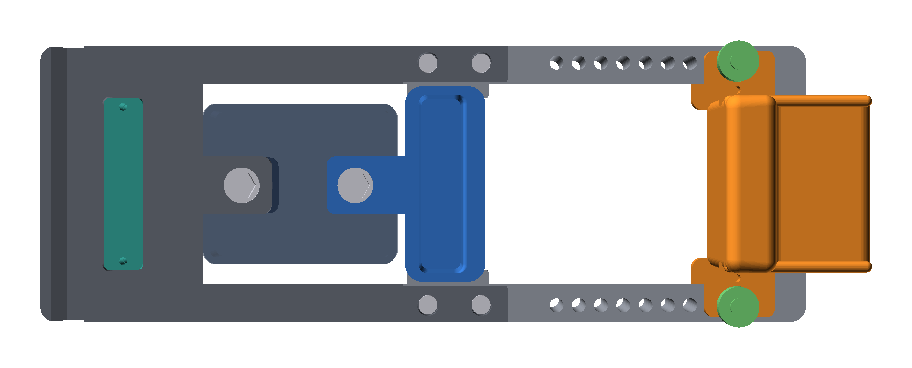
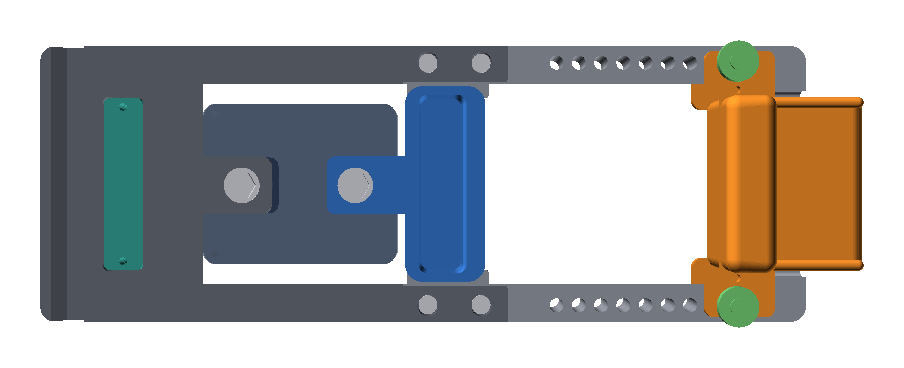
fix: raise only the palm bolster, keep the heel deck level
Return the heel deck to the pocket mouth (Z 34) and restore the right-post
channel it slides through. The palm bolster now rises 32 mm instead of
12 mm, so its top stays at Z 66, 14.5 mm above the pin buttons. Add a
bolster bending screen and a pin-clearance assertion, and update the docs
and illustrations.

diff --git a/docs/src/design/index.md b/docs/src/design/index.md
@@ -59,7 +59,7 @@ matching 5 mm rounded edges and no groove at the transition. Two low,
 than the grip so it slides past the grip guides when it goes onto the frame.
 
 At the finger-facing end, a straight palm bolster modelled on the GoGor LITE
-pad spans the full 78 mm pad width. It is 22 mm deep and 12 mm tall above
+pad spans the full 78 mm pad width. It is 22 mm deep and 32 mm tall above
 the deck, with a nearly flat 11 mm top, a 6 mm front top radius, a 5 mm rear
 top radius, rounded ends blended into the side lips, and a 3 mm concave fillet
 into the deck. It has no cup or ridge. The palm heel pushes on its
@@ -70,13 +70,13 @@ material, with no soft layer.
 
 Behind the bolster, a 38 × 68 mm open heel deck remains solid and
 uninterrupted: no holes, slots, exposed fasteners, or separate pads beneath
-the wrist. The 18 mm-thick deck tops out at Z = 54 mm, 20 mm above the finger
-pocket's +Z opening, and the bolster at Z = 66 mm; only the bolster and the
-low lips rise above the deck. The deck is 2.5 mm above the pin buttons and
-14.5 mm below the bolster top, so a thumb wrapped round the bolster stays
-above the pin heads. Its underside is 2 mm above the frame, so it passes over
-the solid right post at full travel. The upper pin arms are trimmed flush
-with the palm face across the pad width and merge into the deck behind it.
+the wrist. The 14 mm-thick deck sits at Z = 34 mm, level with the finger
+pocket's +Z opening; only the bolster and the low lips rise above it. The
+bolster top, at Z = 66 mm, is 14.5 mm above the pin buttons, so a thumb
+wrapped round the bolster stays above the pin heads. A rounded clearance
+channel in the fixed right post keeps 2 mm under the deck at full wrist
+travel. The upper pin arms are trimmed flush with the palm face across the
+pad width and join the saddle through the bolster's end faces.
 
 The whole saddle moves with the selected opening. The index holes and release
 pins remain outboard of the contact surface; they are adjustment features, not
@@ -95,8 +95,9 @@ These are setup guides, not ergonomic prescriptions.
 
 The lower wrist arms are 28 mm wide. The upper arms extend 3 mm farther away
 from the fingers, giving 24 mm of joint length behind the palm face where they
-join the palm face and the deck. The full-depth indexed rails, the left
-load-cell anchor and the right closing post stay intact. The rails sit 10.7 mm
+enter the bolster's end faces. The full-depth indexed rails and left load-cell
+anchor stay intact; the right closing post retains a 29 mm-deep lower bridge
+and 20 mm side webs under its clearance channel. The rails sit 10.7 mm
 from the case on each side, set by the grip width, so the service tunnel
 through the +Y rail is 26 mm long.
 

diff --git a/docs/src/build/slicer-checks.md b/docs/src/build/slicer-checks.md
@@ -25,8 +25,8 @@ A floating-regions warning means something is missing support.
 - [ ] There's no brim inside the frame U openings, as expected with "Outer brim only".
 - [ ] The brims of neighbouring parts are separate, or only just touch.
 - [ ] The flat faces on the bed are fully filled.
-- [ ] Support bases appear under the right-half lap tongues and grip-guide
-      ledges, the left-half clevis cheek, the wrist-rest deck and the grip
+- [ ] Support bases appear under the right-half lap tongues, grip-guide
+      ledges and channel bridge, the left-half clevis cheek, the wrist-rest deck and the grip
       cheek.
 - [ ] The four screw counterbores, the stopper well and the phone slot of
       the left half are open on the bed.
@@ -48,7 +48,13 @@ Step up until the cheek with the Ø17 hole first appears.
       air, including the outer corner.
 - [ ] The support trees don't lean against the rails.
 
-## F. Plate 2: lap tongues and grip guides (right half, about 22.5 mm and 31 mm)
+## F. Plate 2: channel bridge, lap tongues and grip guides (right half)
+
+Step up to about 14–18 mm, until the closed end of the right half starts
+spanning the channel.
+
+- [ ] The layer just below has dense **support interface** under the bridge.
+- [ ] The first bridge layer is straight parallel lines across the gap.
 
 Step up until the two lap tongues at the open end of the right half first
 appear.
@@ -62,7 +68,7 @@ appear.
 
 ## G. Plate 3: wrist rest, grip and stoppers
 
-- [ ] The first layer of the heel deck, roughly 55 mm up, sits on support
+- [ ] The first layer of the heel deck, roughly 35–50 mm up, sits on support
       interface with no free-hanging edge.
 - [ ] The first layer of the grip's upper cheek sits on support interface.
 - [ ] No support trees grow between the grip and the wrist rest.
@@ -98,6 +104,7 @@ appear.
 - **Plate 1, about 16 mm and 31 mm:** the phone slot and stopper well
   bridges close cleanly.
 - **Plate 1, about 40 mm:** the clevis cheek lands on its support.
+- **Plate 2, about 16 mm:** the channel bridge lands on its support.
 - **Plate 2, about 22.5 mm:** the lap tongues land on their support.
 - **Plate 2, about 31 mm:** the grip-guide ledges land on their support.
 - **If any part comes loose, stop immediately.** On the A1 a loose tall part

diff --git a/docs/src/design/structural.md b/docs/src/design/structural.md
@@ -24,10 +24,11 @@ shear, printed bearing at the screws and lap shoulders, net tension, and
 bending of the eccentric half-depth tongue.
 
 Additional nominal screens cover the left anchor post, unequal clevis
-reactions from the sensor's Z offset, rail net sections and hole ligaments,
-the service-tunnel bridge, metal sleeve bending, collar bearing, finger-lip
-bending over the full 25 mm edge, wrist-arm bending, the upper-arm joint to
-the saddle, and local heel-deck bending. The stoppers, grip guides, stopper
+reactions from the sensor's Z offset, the relieved right post, rail net
+sections and hole ligaments, the service-tunnel bridge, metal sleeve bending,
+collar bearing, finger-lip bending over the full 25 mm edge, wrist-arm
+bending, the upper-arm joint to the bolster, palm-bolster bending, and local
+heel-deck bending. The stoppers, grip guides, stopper
 well and phone slot are outside the load path and are not screened. The heel-deck screen applies the
 full design target at its cantilever tip. It does **not** rate the complete
 mechanism for vertical loading or authorise leaning body weight on the wrist

diff --git a/docs/src/build/checks-and-limits.md b/docs/src/build/checks-and-limits.md
@@ -3,9 +3,9 @@
 ## Assembly checks
 
 - [ ] **All nine positions:** the pins go in and lock easily each time, and
-      the heel deck passes cleanly over the palm post.
+      the heel deck passes cleanly through the channel in the palm post.
 - [ ] **Pin heads:** you can grip and pull each pin at every position. The
-      heads sit 6.5 mm from the side of the deck and below its top.
+      heads sit 6.5 mm from the bolster ends, 14.5 mm below its top.
 - [ ] **Case access:** the USB port and switch are reachable at every position.
 - [ ] **Tabletop:** only the four feet touch. The nuts, bolt tips and pin tips
       stay clear.
@@ -46,8 +46,8 @@ Copy this table into a comment or a new note.
 | Frame joint fit (tight / good / loose) | |
 | Sleeve, collar and pin fit (tight / good / loose) | |
 | Grip level (level / on the ledges / tilted) | |
-| Wrist-rest slide over the palm post | |
-| Pin-head access beside the deck | |
+| Wrist-rest slide through the channel | |
+| Pin-head access at the bolster | |
 | Thumb clear of the pin heads | |
 | Stopper fit and removal | |
 | Phone model and fit in the slot | |

diff --git a/AGENTS.md b/AGENTS.md
@@ -26,7 +26,8 @@
 - Keep the grip-guide ledges under the grip's side walls with a Z gap and
   free X travel, so they catch tilt without carrying measured load.
 - Keep the rounded palm/wrist-heel pad beside the hangboard pocket, with its
-  heel deck 20 mm above the pocket mouth and above the pin heads.
+  heel deck level with the pocket mouth and its palm bolster rising 32 mm
+  above it, at least 10 mm above the pin buttons.
 - Preserve its nine positively locked 25–105 mm opening positions, with
   discrete holes in the fixed rails, round holes in the pad arms, and two
   tethered Ø6 mm push-button ball-lock pins; adjustment must remain tool-free.

diff --git a/docs/src/build/printing.md b/docs/src/build/printing.md
@@ -79,6 +79,7 @@ intended print orientation.
 |---|---|
 | Right frame half | Underside of both lap tongues, about 22.5 mm up |
 | Right frame half | Grip-guide ledges on the rail inner faces, about 31 mm up |
+| Right frame half | Bridge over the palm-deck channel at the closed end |
 | Left frame half | Clevis cheek with the Ø17 hole, about 35–45 mm up |
 | Wrist rest | Underside of the overhanging heel deck and outer upper arms |
 | Grip | Underside of the upper clevis cheek and pocket body |

diff --git a/docs/src/build/wrist-pins-and-positions.md b/docs/src/build/wrist-pins-and-positions.md
@@ -8,7 +8,7 @@
    with the middle (5th) hole.
 2. Press the pin's button and push the pin down from the top through the
    upper arm, the rail and the lower arm, until the head rests on the upper
-   arm. Release the button. The head sits beside the heel deck, below its
+   arm. Release the button. The head sits beside the bolster, below its
    top.
 3. Check that both locking balls stand out fully below the lower arm, then
    tug the pin to confirm that it is locked.

diff --git a/docs/src/build/frame-and-wrist-rest.md b/docs/src/build/frame-and-wrist-rest.md
@@ -21,7 +21,7 @@
    middle of the index-hole row. The upright palm face passes between the
    two grip-guide ledges on the rail inner faces.
 5. Check that it slides freely over the whole row of index holes and that
-   the heel deck passes over the palm post.
+   the heel deck passes through the channel in the palm post.
 
 ## Bolt the halves together
 
